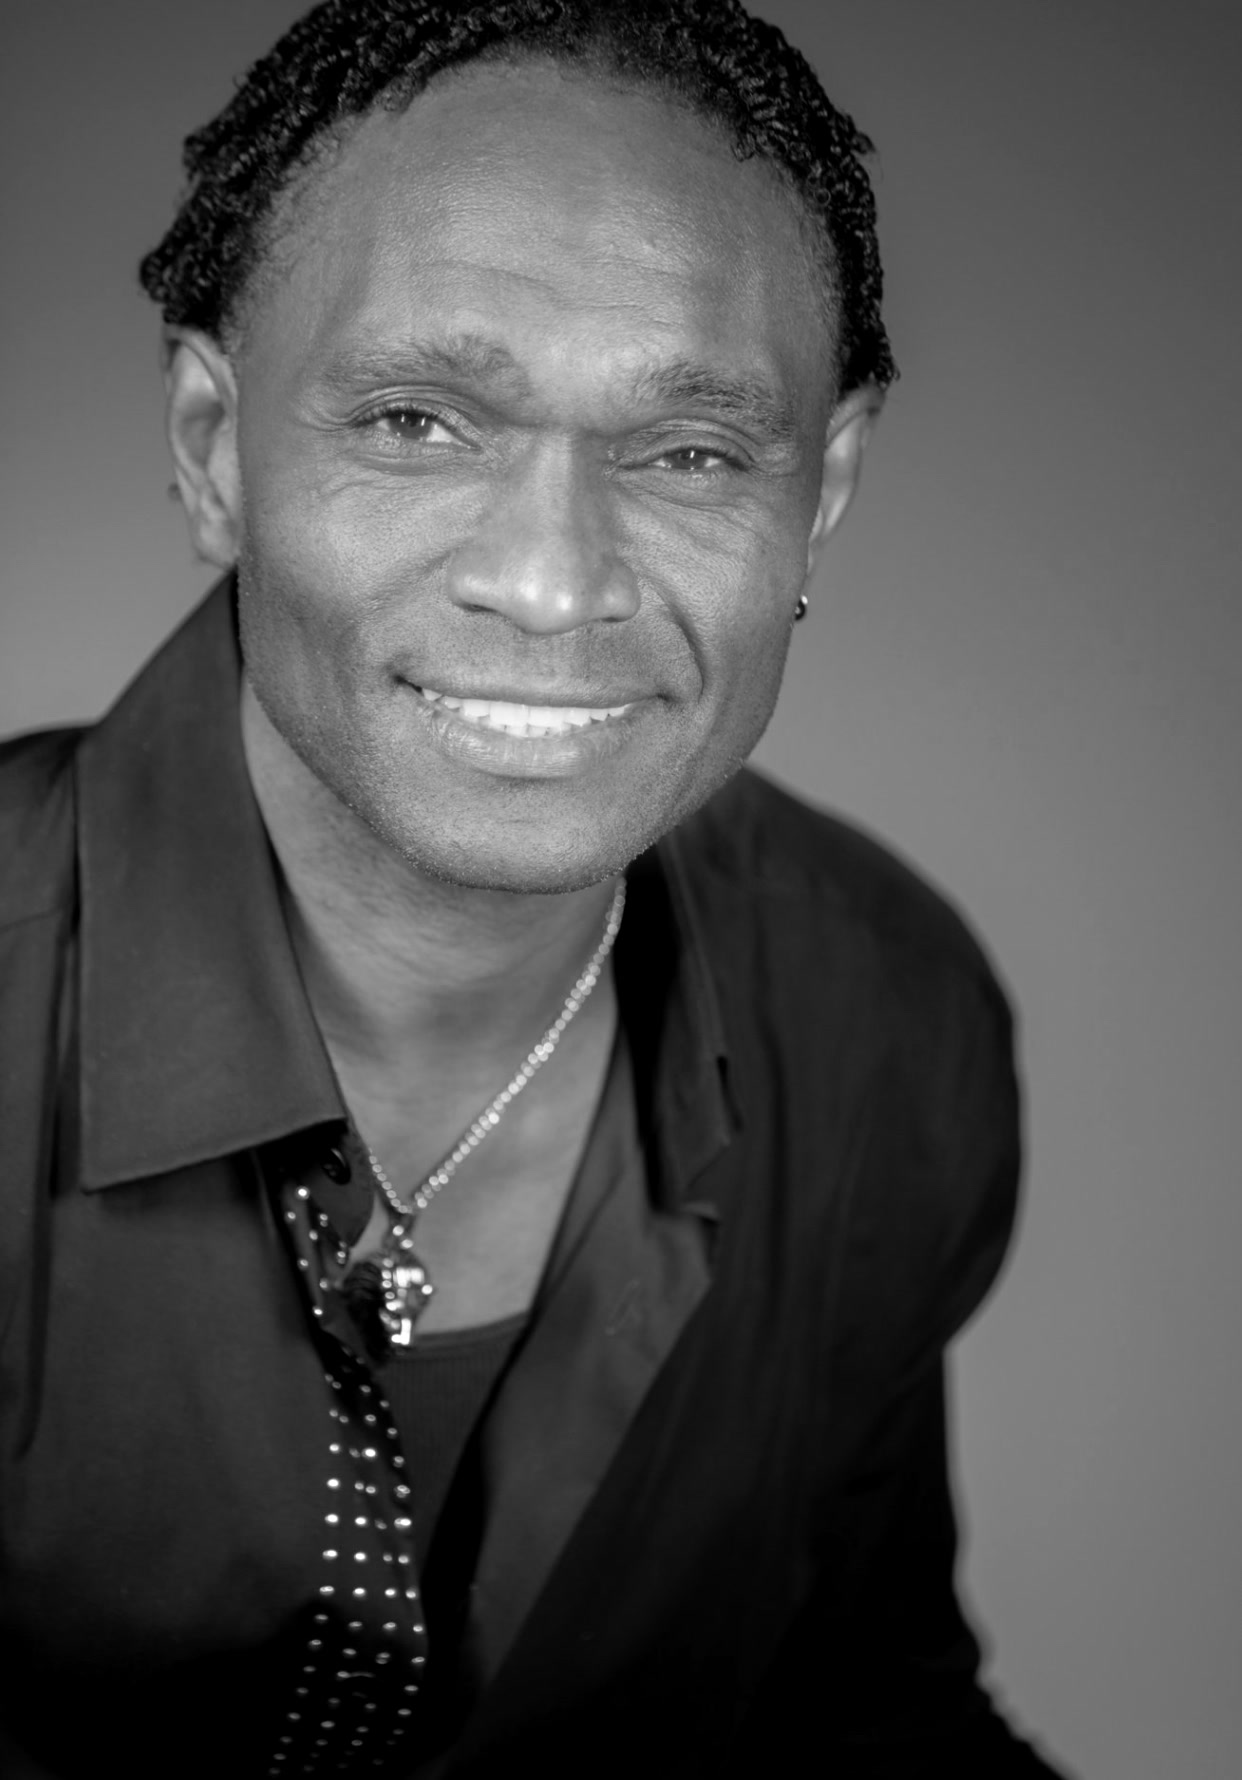
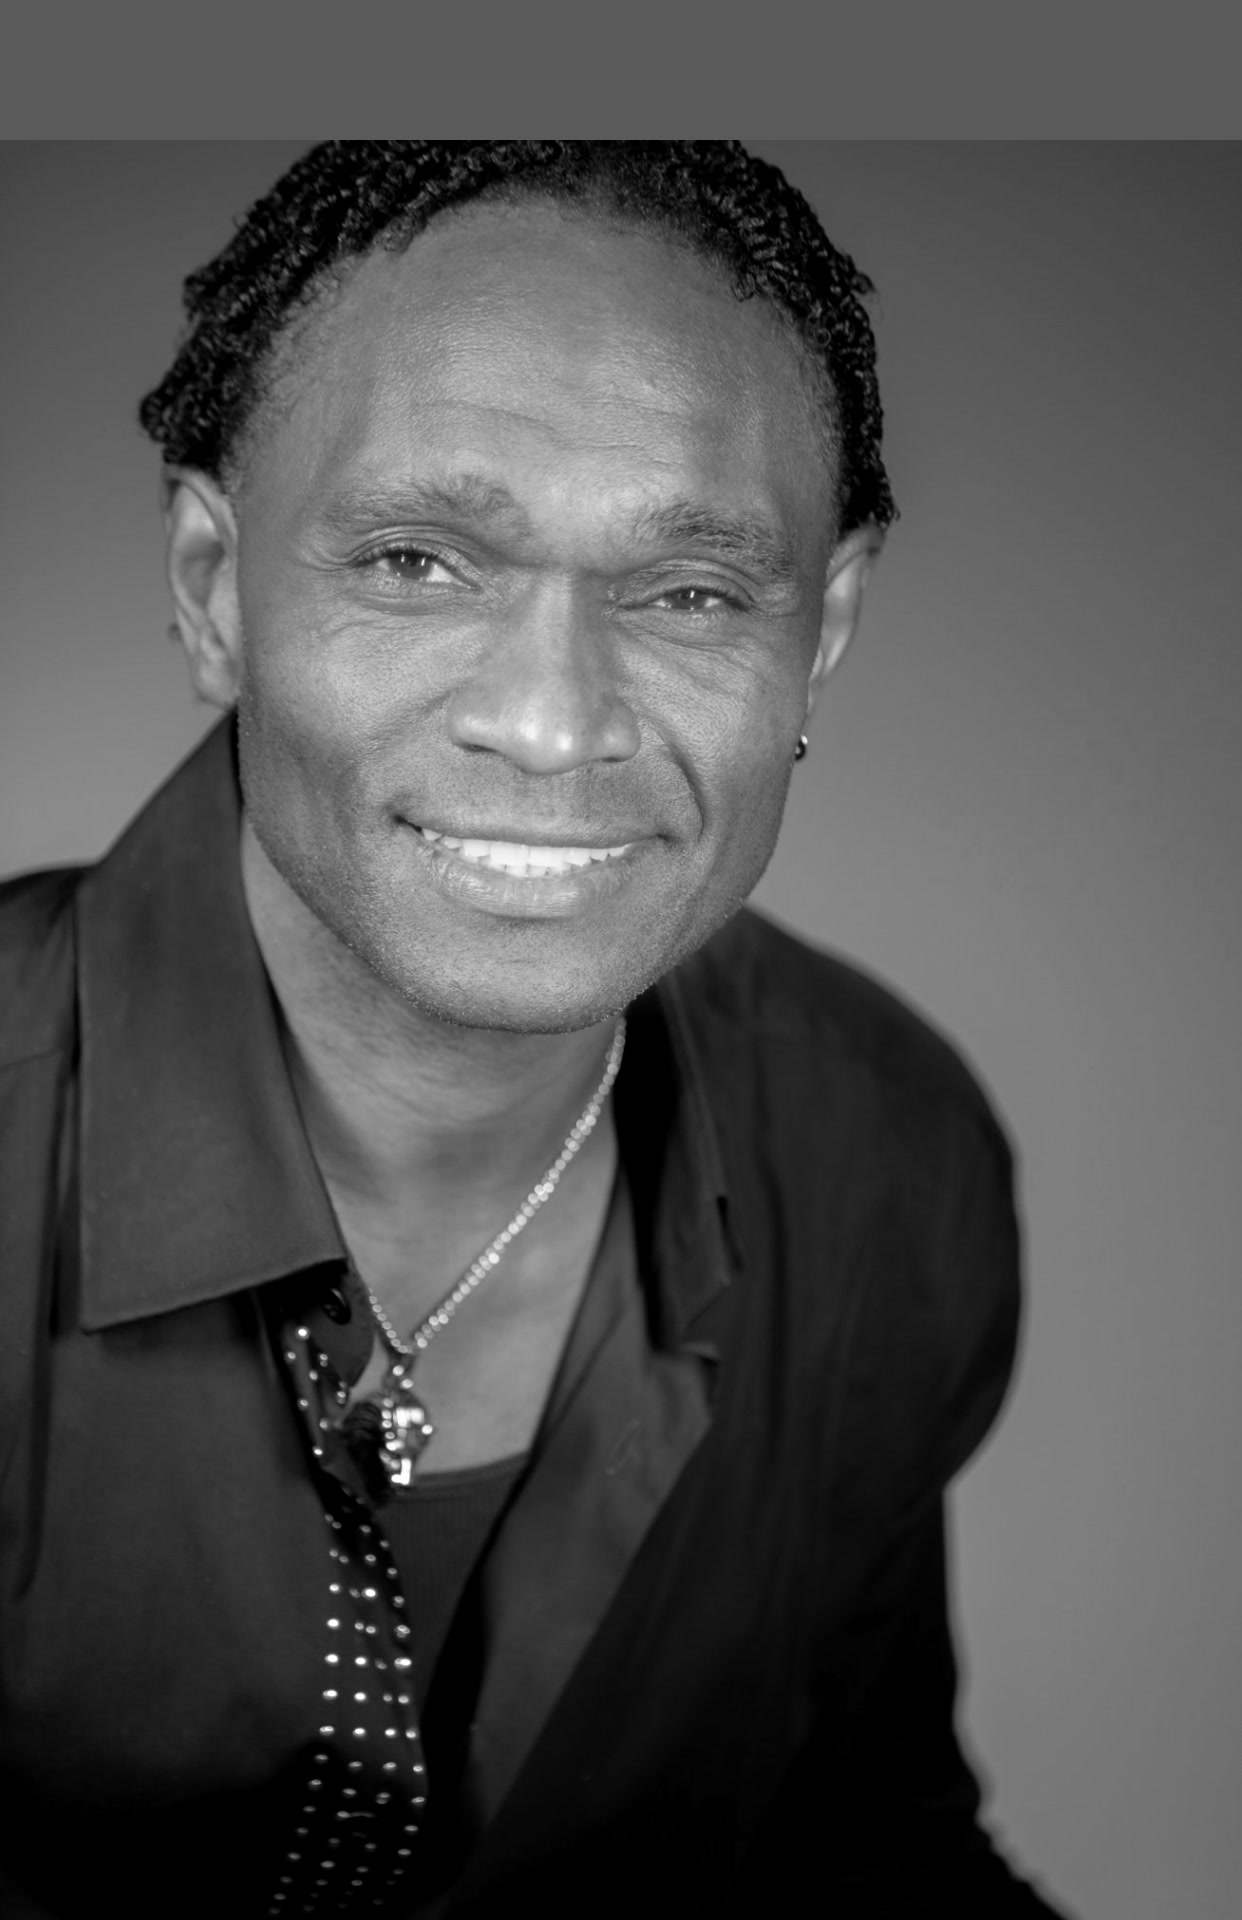
Adjust Lorenzo bio photo headroom

diff --git a/src/app/about/page.tsx b/src/app/about/page.tsx
@@ -46,7 +46,7 @@ export default function AboutPage() {
         <div className="sn-shell sn-split" style={{ display: "grid", gridTemplateColumns: "420px 1fr", gap: 44, alignItems: "start" }}>
           <Reveal>
             <div style={{ position: "relative" }}>
-              <Image src="/assets/select-network/lorenzo-bio-editorial.jpg" alt="Lorenzo Miller" width={1242} height={1780} style={{ width: "100%", height: "auto", borderRadius: 16, border: "1px solid #e7e2d8", boxShadow: "0 18px 45px rgba(5,20,45,.12)", objectFit: "cover", objectPosition: "center 18%" }} />
+              <Image src="/assets/select-network/lorenzo-bio-editorial.jpg" alt="Lorenzo Miller" width={1242} height={1920} style={{ width: "100%", height: "auto", borderRadius: 16, border: "1px solid #e7e2d8", boxShadow: "0 18px 45px rgba(5,20,45,.12)", objectFit: "cover", objectPosition: "center 18%" }} />
               <div style={{ marginTop: 16, background: "#fbf9f4", border: "1px solid #eee7d8", borderRadius: 12, padding: "18px 20px" }}>
                 <b style={{ fontFamily: "Georgia, serif", fontWeight: 400, fontSize: 22, display: "block" }}>Lorenzo Miller</b>
                 <span style={{ color: GOLD, fontSize: 13, fontWeight: 700 }}>Founder · Entrepreneur · Select Member · Visionary</span>